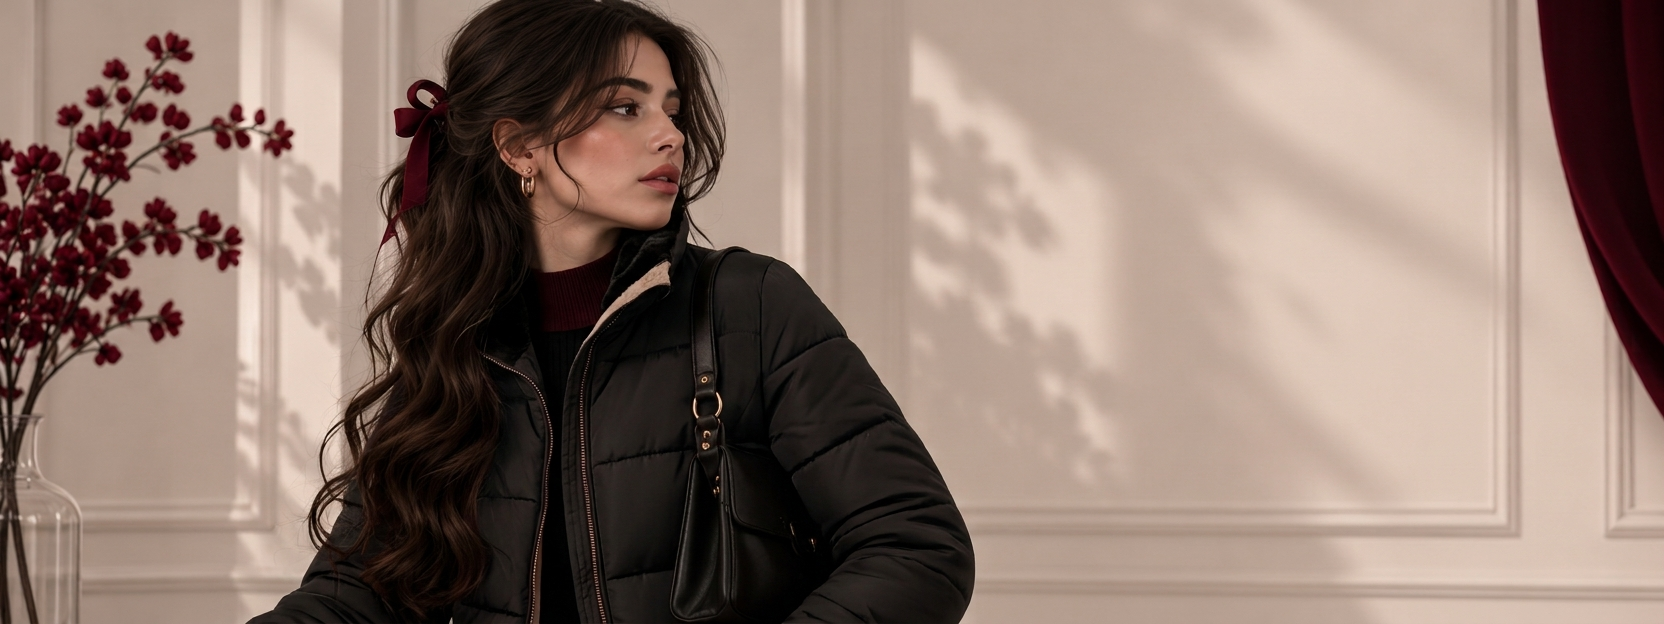
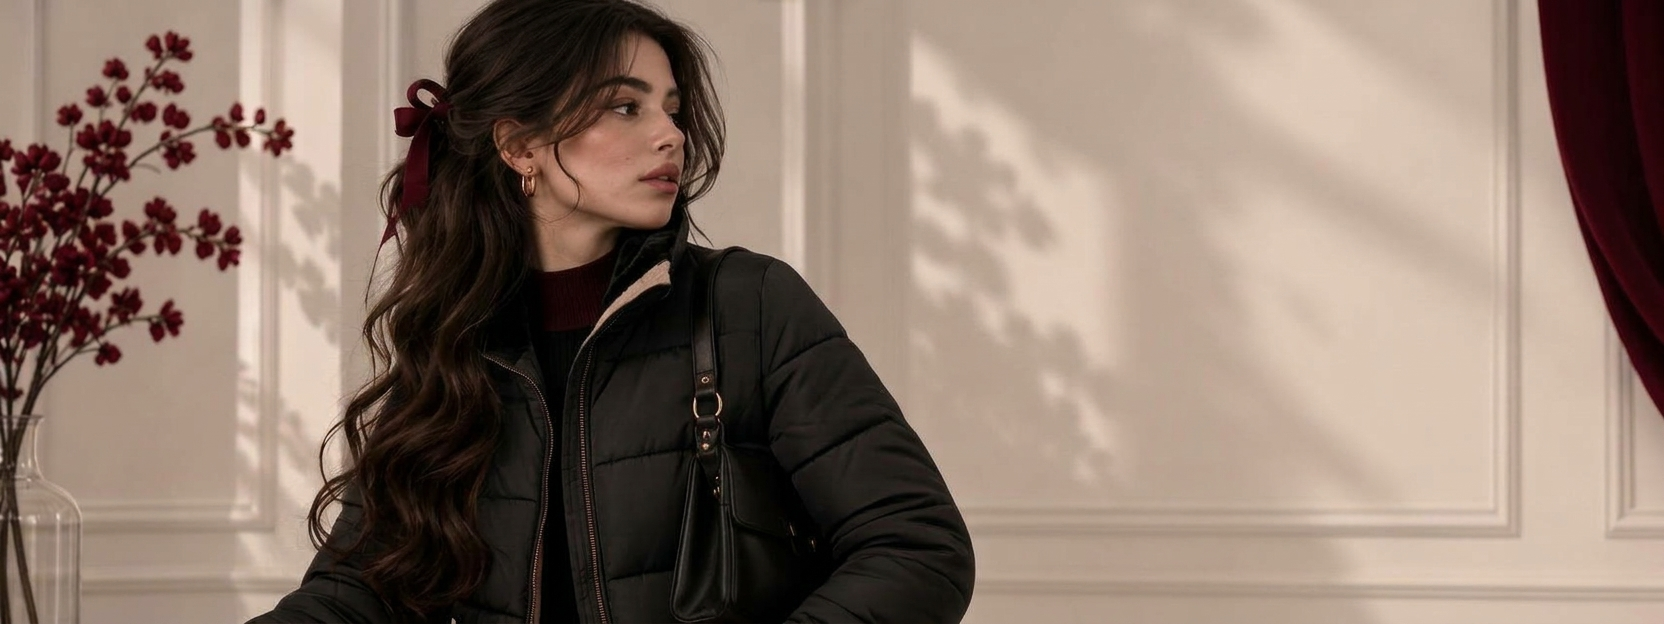
slider

diff --git a/dist/output.css b/dist/output.css
@@ -702,12 +702,6 @@
       background-color: color-mix(in oklab, var(--color-white) 10%, transparent);
     }
   }
-  .bg-white\/90 {
-    background-color: color-mix(in srgb, #fff 90%, transparent);
-    @supports (color: color-mix(in lab, red, red)) {
-      background-color: color-mix(in oklab, var(--color-white) 90%, transparent);
-    }
-  }
   .bg-wine {
     background-color: var(--color-wine);
   }
@@ -732,13 +726,6 @@
   }
   .from-ink {
     --tw-gradient-from: var(--color-ink);
-    --tw-gradient-stops: var(--tw-gradient-via-stops, var(--tw-gradient-position), var(--tw-gradient-from) var(--tw-gradient-from-position), var(--tw-gradient-to) var(--tw-gradient-to-position));
-  }
-  .from-ink\/80 {
-    --tw-gradient-from: color-mix(in srgb, #302321 80%, transparent);
-    @supports (color: color-mix(in lab, red, red)) {
-      --tw-gradient-from: color-mix(in oklab, var(--color-ink) 80%, transparent);
-    }
     --tw-gradient-stops: var(--tw-gradient-via-stops, var(--tw-gradient-position), var(--tw-gradient-from) var(--tw-gradient-from-position), var(--tw-gradient-to) var(--tw-gradient-to-position));
   }
   .to-transparent {
@@ -798,9 +785,6 @@
   }
   .py-1 {
     padding-block: var(--spacing);
-  }
-  .py-1\.5 {
-    padding-block: calc(var(--spacing) * 1.5);
   }
   .py-2 {
     padding-block: calc(var(--spacing) * 2);
@@ -1013,6 +997,10 @@
   .opacity-25 {
     opacity: 25%;
   }
+  .shadow-md {
+    --tw-shadow: 0 4px 6px -1px var(--tw-shadow-color, rgb(0 0 0 / 0.1)), 0 2px 4px -2px var(--tw-shadow-color, rgb(0 0 0 / 0.1));
+    box-shadow: var(--tw-inset-shadow), var(--tw-inset-ring-shadow), var(--tw-ring-offset-shadow), var(--tw-ring-shadow), var(--tw-shadow);
+  }
   .shadow-sm {
     --tw-shadow: 0 1px 3px 0 var(--tw-shadow-color, rgb(0 0 0 / 0.1)), 0 1px 2px -1px var(--tw-shadow-color, rgb(0 0 0 / 0.1));
     box-shadow: var(--tw-inset-shadow), var(--tw-inset-ring-shadow), var(--tw-ring-offset-shadow), var(--tw-ring-shadow), var(--tw-shadow);
@@ -1048,13 +1036,6 @@
     user-select: none;
   }
   @media (hover: hover) {
-    :is(:where(.group):hover .group-hover\:pointer-events-auto) {
-      pointer-events: auto;
-    }
-    :is(:where(.group):hover .group-hover\:translate-y-0) {
-      --tw-translate-y: 0px;
-      translate: var(--tw-translate-x) var(--tw-translate-y);
-    }
     :is(:where(.group):hover .group-hover\:scale-105) {
       --tw-scale-x: 105%;
       --tw-scale-y: 105%;
@@ -1134,14 +1115,6 @@
     .hover\:bg-sand:hover {
       background-color: var(--color-sand);
     }
-    .hover\:bg-sand\/60:hover {
-      background-color: color-mix(in srgb, #DED1C7 60%, transparent);
-    }
-    @supports (color: color-mix(in lab, red, red)) {
-      .hover\:bg-sand\/60:hover {
-        background-color: color-mix(in oklab, var(--color-sand) 60%, transparent);
-      }
-    }
     .hover\:bg-white:hover {
       background-color: var(--color-white);
     }
@@ -1183,12 +1156,6 @@
   }
   .focus\:outline-wine:focus {
     outline-color: var(--color-wine);
-  }
-  .active\:scale-90:active {
-    --tw-scale-x: 90%;
-    --tw-scale-y: 90%;
-    --tw-scale-z: 90%;
-    scale: var(--tw-scale-x) var(--tw-scale-y);
   }
   .active\:scale-95:active {
     --tw-scale-x: 95%;
@@ -1264,9 +1231,6 @@
     .sm\:flex-row {
       flex-direction: row;
     }
-    .sm\:flex-wrap {
-      flex-wrap: wrap;
-    }
     .sm\:items-start {
       align-items: flex-start;
     }
@@ -1287,9 +1251,6 @@
     }
     .sm\:gap-5 {
       gap: calc(var(--spacing) * 5);
-    }
-    .sm\:overflow-visible {
-      overflow: visible;
     }
     .sm\:object-left {
       object-position: left;
@@ -1321,14 +1282,8 @@
     .sm\:py-3 {
       padding-block: calc(var(--spacing) * 3);
     }
-    .sm\:py-12 {
-      padding-block: calc(var(--spacing) * 12);
-    }
     .sm\:pt-0 {
       padding-top: 0px;
-    }
-    .sm\:pb-0 {
-      padding-bottom: 0px;
     }
     .sm\:text-start {
       text-align: start;

diff --git a/home.html b/home.html
@@ -65,28 +65,27 @@
   <main class="mx-auto max-w-7xl space-y-10 px-4 pb-10 lg:px-6">
 
 <!-- اسلایدر اصلی -->
-<section aria-label="معرفی مجموعه" class="relative isolate flex aspect-[4/3] items-center justify-center overflow-hidden rounded-3xl bg-sand sm:aspect-auto sm:min-h-80 sm:justify-start lg:min-h-120">
-  <img src="images/hero.png" alt="مدل با بافت زرشکی"
+<section data-slider aria-label="معرفی مجموعه" class="relative isolate flex aspect-[4/3] items-center justify-center overflow-hidden rounded-3xl bg-sand sm:aspect-auto sm:min-h-80 sm:justify-start lg:min-h-120">
+  <img data-slide-image src="images/hero.png" alt="مدل با بافت زرشکی"
   class="absolute inset-0 -z-10 size-full object-cover object-[38%_center] opacity-25 sm:object-left sm:opacity-100">
 
   <hgroup class="flex w-full flex-col items-center gap-1.5 p-4 text-center sm:w-3/5 sm:items-start sm:gap-3 sm:p-10 sm:text-start lg:w-1/2 lg:ps-0 lg:pe-16 xl:mr-30">
-    <p class="text-sm font-medium">کالکشن جدید پاییز و زمستان</p>
-    <h1 class="text-2xl font-extrabold text-wine sm:text-4xl">استایل خاص، در هر فصل</h1>
-    <p class="text-sm">با لباسهایی که حس بهتری بهت میدن.</p>
+    <p data-slide-subtitle class="text-sm font-medium">کالکشن جدید پاییز و زمستان</p>
+    <h1 data-slide-title class="text-2xl font-extrabold text-wine sm:text-4xl">استایل خاص، در هر فصل</h1>
+    <p data-slide-text class="text-sm">با لباسهایی که حس بهتری بهت میدن.</p>
     <a href="#products"
-      class="mt-1 inline-flex items-center gap-2 rounded-full bg-wine px-5 py-2 text-sm font-medium text-white hover:bg-ink hover:shadow-lg active:scale-95 sm:mt-3 sm:px-7 sm:py-3">
-      <i class="fa-solid fa-arrow-right"></i>
-      مشاهده محصولات
+       class="mt-2 inline-flex items-center gap-2 rounded-full bg-wine px-6 py-2.5 text-sm font-medium text-white shadow-md transition hover:bg-ink hover:shadow-lg active:scale-95">
+       <i class="fa-solid fa-arrow-right"></i>
+       مشاهده محصولات
     </a>
   </hgroup>
 
   <ul class="absolute bottom-4 start-1/2 hidden -translate-x-1/2 gap-3 sm:bottom-5 sm:flex" aria-label="اسلایدها">
-    <li><button type="button" class="size-3 rounded-full bg-wine hover:bg-ink" aria-label="اسلاید ۱"></button></li>
-    <li><button type="button" class="size-3 rounded-full border border-wine hover:bg-wine" aria-label="اسلاید ۲"></button></li>
-    <li><button type="button" class="size-3 rounded-full border border-wine hover:bg-wine" aria-label="اسلاید ۳"></button></li>
+    <li><button type="button" data-slide-dot class="size-3 rounded-full border border-wine bg-wine hover:bg-ink" aria-label="اسلاید ۱"></button></li>
+    <li><button type="button" data-slide-dot class="size-3 rounded-full border border-wine hover:bg-wine" aria-label="اسلاید ۲"></button></li>
+    <li><button type="button" data-slide-dot class="size-3 rounded-full border border-wine hover:bg-wine" aria-label="اسلاید ۳"></button></li>
   </ul>
 </section>
-
 
     
  <!-- دستهبندیها -->

diff --git a/js/slider.js b/js/slider.js
@@ -1,0 +1,80 @@
+const slides = [
+  {
+    image: "images/hero.png",
+    alt: "مدل با بافت زرشکی",
+    subtitle: "کالکشن جدید پاییز و زمستان",
+    title: "استایل خاص، در هر فصل",
+    text: "با لباسهایی که حس بهتری بهت میدن.",
+  },
+  {
+    image: "images/hero-2.jpeg",
+    alt: "کالکشن زمستانه",
+    subtitle: "تخفیف ویژه زمستانه",
+    title: "تا ۳۰٪ تخفیف",
+    text: "گرم بمان و شیک بمان.",
+  },
+  {
+    image: "images/hero-3.jpeg",
+    alt: "کالکشن جدید",
+    subtitle: "رسیدن محصولات جدید",
+    title: "تازهترین استایلها",
+    text: "هر هفته چیزی تازه برای تو.",
+  },
+];
+
+slides.forEach((slide) => {
+  const img = new Image();
+  img.src = slide.image;
+});
+
+export function initSlider() {
+  const hero = document.querySelector("[data-slider]");
+  if (!hero) return;
+
+  const image = hero.querySelector("[data-slide-image]");
+  const subtitle = hero.querySelector("[data-slide-subtitle]");
+  const title = hero.querySelector("[data-slide-title]");
+  const text = hero.querySelector("[data-slide-text]");
+  const dots = hero.querySelectorAll("[data-slide-dot]");
+
+  let current = 0;
+  let timer;
+
+  function showSlide(index) {
+    current = index;
+    const slide = slides[current];
+
+    image.src = slide.image;
+    image.alt = slide.alt;
+    subtitle.textContent = slide.subtitle;
+    title.textContent = slide.title;
+    text.textContent = slide.text;
+
+    dots.forEach((dot, i) => {
+      dot.classList.toggle("bg-wine", i === current);
+    });
+  }
+
+  function stopAutoPlay() {
+    clearInterval(timer);
+  }
+
+  function startAutoPlay() {
+    stopAutoPlay();
+    timer = setInterval(() => {
+      showSlide((current + 1) % slides.length);
+    }, 2000);
+  }
+
+  dots.forEach((dot, i) => {
+    dot.addEventListener("click", () => {
+      showSlide(i);
+      startAutoPlay();
+    });
+  });
+
+  hero.addEventListener("mouseenter", stopAutoPlay);
+  hero.addEventListener("mouseleave", startAutoPlay);
+
+  startAutoPlay();
+}

diff --git a/js/main.js b/js/main.js
@@ -1,3 +1,4 @@
+import { initSlider } from "./slider.js";
 import { initCart } from "./cart.js";
 import { initSearch } from "./search.js";
 import { products } from "./products.js";
@@ -10,5 +11,7 @@ if (list) {
   renderProducts(list, products.slice(0, limit));
 }
 
+
+initSlider();
 initSearch();
 initCart();
